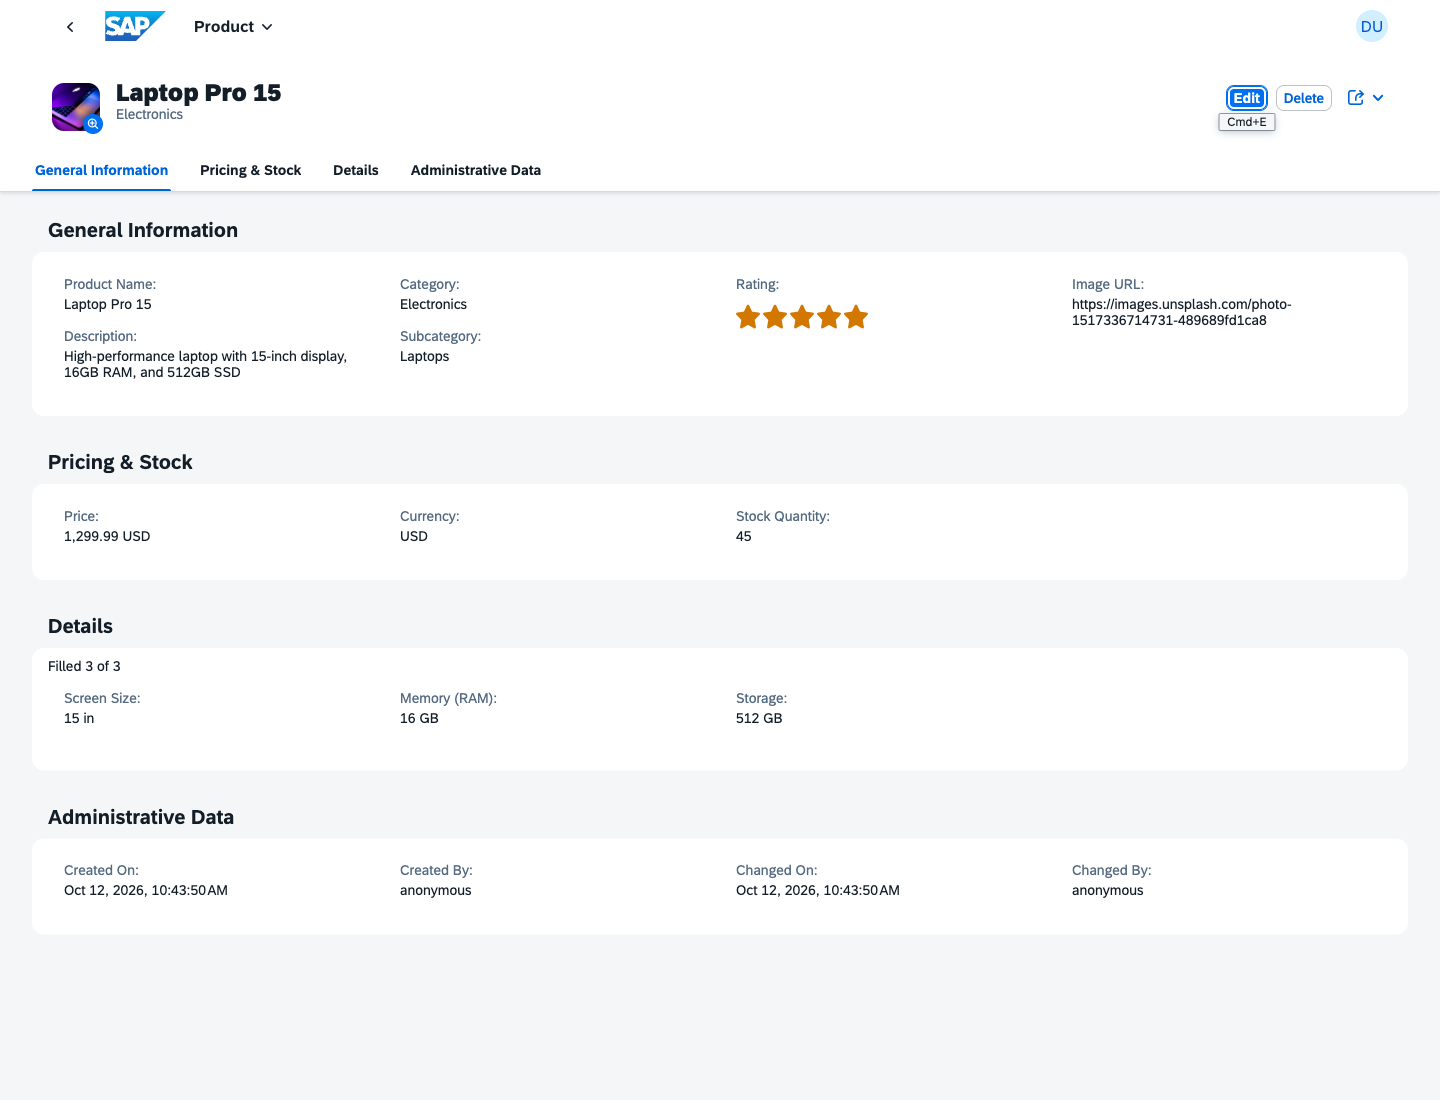
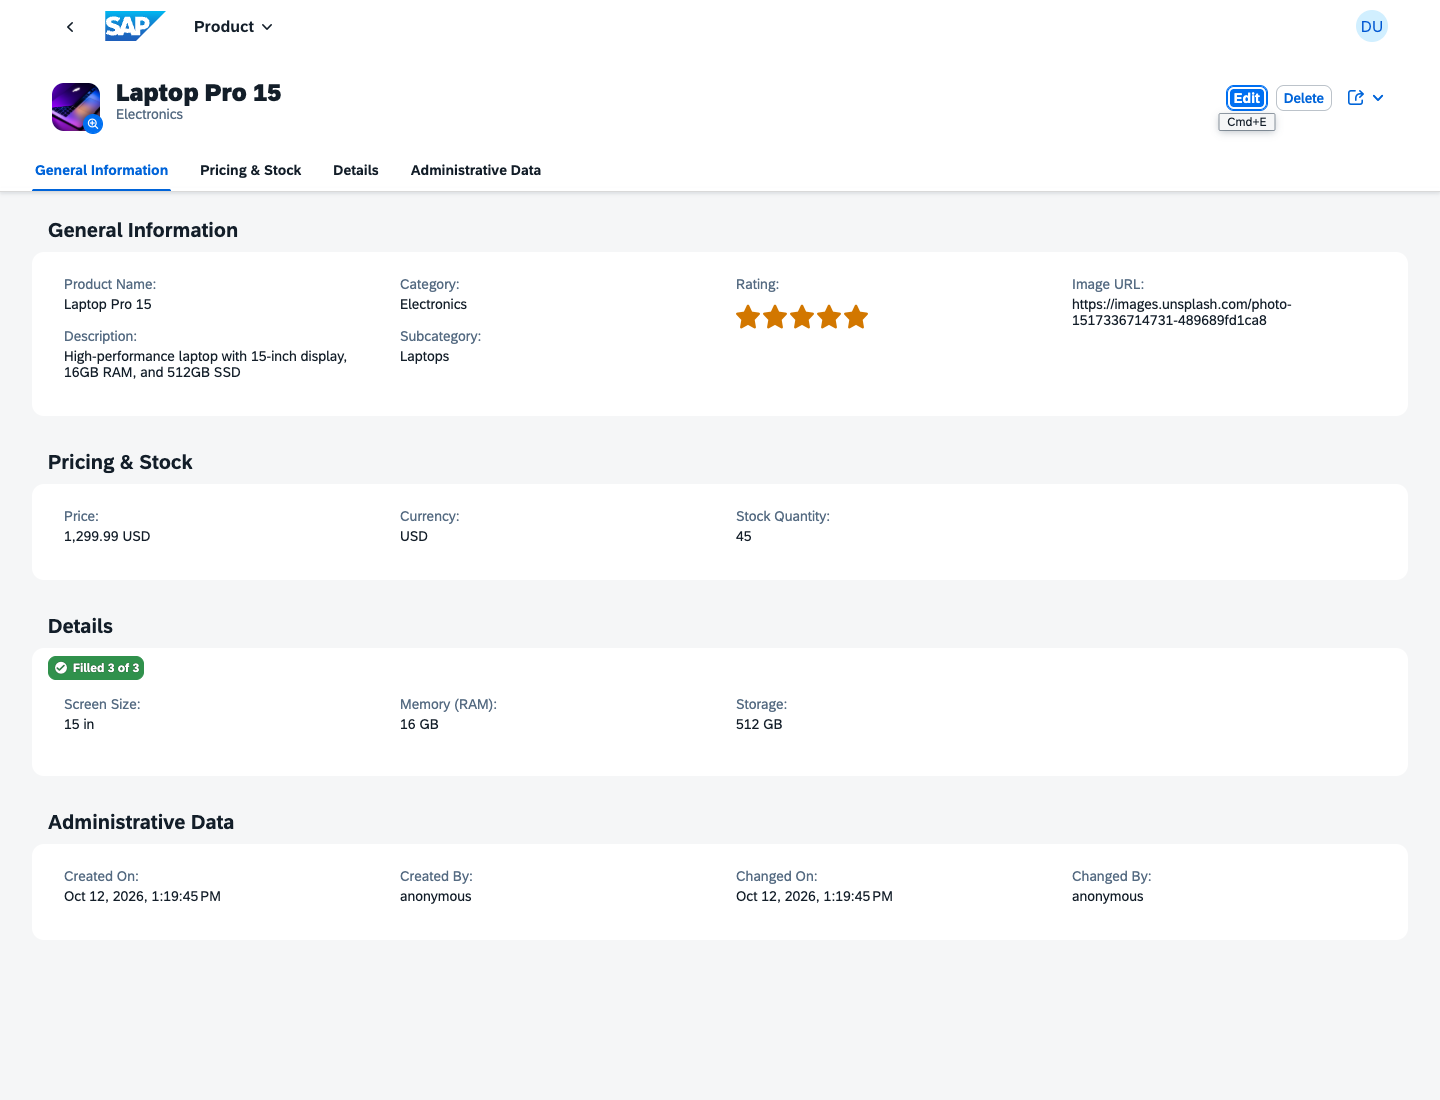
docs: products-details-section counter badge review and screenshots
Re-review of c2673cb: no finding. Browser check on fresh code: Success
badge on Laptop Pro 15, Warning on the incomplete products incl. 0 of 3;
screen readers get the framework state text. Final screenshots retaken.

diff --git a/docs/features/products-details-section/REVIEW.md b/docs/features/products-details-section/REVIEW.md
@@ -70,3 +70,19 @@ Important 2 (ADR-0027 rows-binding amendment), Important 4 (`app/products/bin/` 
 
 ### Verdict (re-review)
 ready to commit. No blocking findings. The fix batch closes Important 1 (in code) and 3, and Minors 1 and 3, without a regression of B6, B7 or the criterion 63 order.
+
+## Re-review (c2673cb)
+
+Scope: `git diff 8cd98c7..c2673cb`, the counter as a status badge (user decision of 2026-10-12, SCREENS "Title, counter, layout" amended, variant A). Findings above keep their counts; this section adds no item to them.
+
+### Gates (reviewer, fresh, on c2673cb)
+`npm run lint` clean; `npm test` 209 passed in 11 files; `cd app/products && npm run lint` (ui5lint) `Success! No findings detected.` (so `coreLibrary.ValueState` raises no deprecation finding); `npm run lint:js` 0 errors, 1 warning (the pre-existing `Component.js`). `npm run test:ui` 82/82 as measured by the orchestrator, not re-run. The Cyrillic scan of the changed code, test and doc files finds nothing.
+
+### Checked
+- Correctness: `counterStatus(filled, total)` returns Success with `sap-icon://sys-enter-2` only for `total > 0 && filled === total`, and Warning with `sap-icon://alert` otherwise, so partial and zero are Warning. This matches the SCREENS table row by row. `updateCounter` sets state and icon synchronously and the text through the existing `withBundle`. Visibility is unchanged (`hasSubcategory && total > 0`), so the M = 0 Warning result is never shown, as the JSDoc says. `inverted="true"` and `FlexItemData alignSelf="Start"` are in the fragment (default `sap.m` namespace). The badge has no `active` property, so it adds no tab stop and keeps the SCREENS Accessibility topic 4 claim that "the counter is not a tab stop" true.
+- Conventions: the states come from the `ValueState` enum of `sap/ui/core/library`, not string literals. The two icon URIs are named module constants with JSDoc. The new pure function has JSDoc, is exported next to `countFilled`, and is covered by 3 QUnit tests (complete, partial and zero, M = 0). No new i18n key is needed: the text key `ProductsObjectPage.details.filled` is reused, and the state announcement is the framework's own (no `stateAnnouncementText`, the orchestrator's and `ux-designer`'s decision, as for FE criticality statuses). The OPA page method `iSeeTheCounter(text, state)` asserts the control type `sap.m.ObjectStatus`, the text, the state and the icon of that state. Its icon map is written on the test side from SCREENS, not imported from the module, so a wrong icon in the code turns the test red. All 13 call sites in the two journeys pass the state that their N and M imply.
+- Not a finding: the icon URIs appear twice, in the module and in the test map. The test is meant as an independent statement of the spec. `max-params` grows to 15 (already covered by Minor 2). PATTERNS has no "status" row for custom fragments; this is a control choice inside ADR-0027 decision 5's counter and is decided by the user in SCREENS. `docs-keeper` can mention it in the "Custom section or column" example.
+- For `docs-keeper` (phase 6, already announced by the orchestrator): PLAN D20 and CONTEXT D20 still say "neutral text". Amend them to the badge with a pointer to the SCREENS amendment.
+
+### Verdict (re-review)
+ready to commit. No blocking findings and no new finding.

diff --git a/docs/features/products-details-section/VERIFICATION.md b/docs/features/products-details-section/VERIFICATION.md
@@ -217,6 +217,29 @@ Fresh `npx cds serve --in-memory --port 4004`, new isolated contexts, window 144
 - `final-6-viewer-en.png`: `viewer`, Laptop Pro 15, display, no Edit or Delete (Share only).
 Every draft created for these shots was deleted through the API (204); product count 15, draft count 0 at the end.
 
+### Counter badge check (c2673cb)
+
+Setup: NEW isolated context, freshly started `npx cds serve --in-memory --port 4004`, window 1440 x 1100.
+
+Fresh-code proof: the counter element `...CustomSubSection::Details--detailsCounter` is a `DIV` with the classes `sapMObjStatus sapMObjStatusSuccess sapMObjStatusInverted` (Laptop Pro 15, 3 of 3) and `sapMObjStatus sapMObjStatusWarning sapMObjStatusInverted` (Wireless Mouse 2 of 3, Office Chair 2 of 3, Wireless Mouse in Audio 1 of 3, Backpack 0 of 3).
+
+Screenshots (overwritten or new, `screenshots/`):
+- `final-1-display-laptop-en.png`: green badge with check, "Filled 3 of 3".
+- `final-2-display-mouse-ru.png`: orange badge with alert icon, "Заполнено 2 из 3".
+- `final-3-edit-office-chair-en.png`: edit mode, orange "Filled 2 of 3", Colour list open.
+- `final-5-subcategory-warning-en.png`: Mice to Audio, Warning bubble on Subcategory, orange "Filled 1 of 3".
+- `final-7-display-backpack-en.png` (new): orange "Filled 0 of 3", three empty indicators.
+
+DOM finding for a screen reader (SCREENS scenario 16, UX risk 12):
+| State | Visible text | Hidden text (`sapUiPseudoInvisibleText` spans, read after the text) | Icon |
+|---|---|---|---|
+| Success (3 of 3, en) | "Filled 3 of 3" | "Object Status", "Entry successfully validated" | `<span class="sapUiIcon" role="presentation" aria-hidden="true">`, decorative |
+| Warning (2 of 3 / 0 of 3, en) | "Filled 2 of 3" | "Object Status", "Warning issued" | `role="presentation" aria-hidden="true"` |
+| Warning (2 of 3, ru) | "Заполнено 2 из 3" | "Статус объекта", "Выдано предупреждение" | `role="presentation" aria-hidden="true"` |
+So the badge is read as "Filled 3 of 3, Object Status, Entry successfully validated" or "Filled 0 of 3, Object Status, Warning issued" (`ru`: "Заполнено 2 из 3, Статус объекта, Выдано предупреждение"). The icon is correctly hidden; the root has no `role`, `aria-label` or `aria-labelledby`, is not focusable (no tab stop) and has no live region (it is not announced when the value changes, as decided in SCREENS "Invisible messaging"). Observation (UX risk 12): the hidden state texts are the framework's generic ones ("Entry successfully validated", "Warning issued", a UI5 translation of the ValueState), so "Warning issued" is announced for an empty but allowed state such as "Filled 0 of 3"; the visible text still carries the real information, so nothing is lost, but the wording suggests a problem the user need not fix (U4). Not counted as a defect; a custom `ariaLabelledBy` or a state text owned by the fragment would change it.
+
+Verdict unchanged: ready for review. R2-D6 fixed; no open finding.
+
 ---
 
 # Round 1 (plan revision 1, table UI, history)
